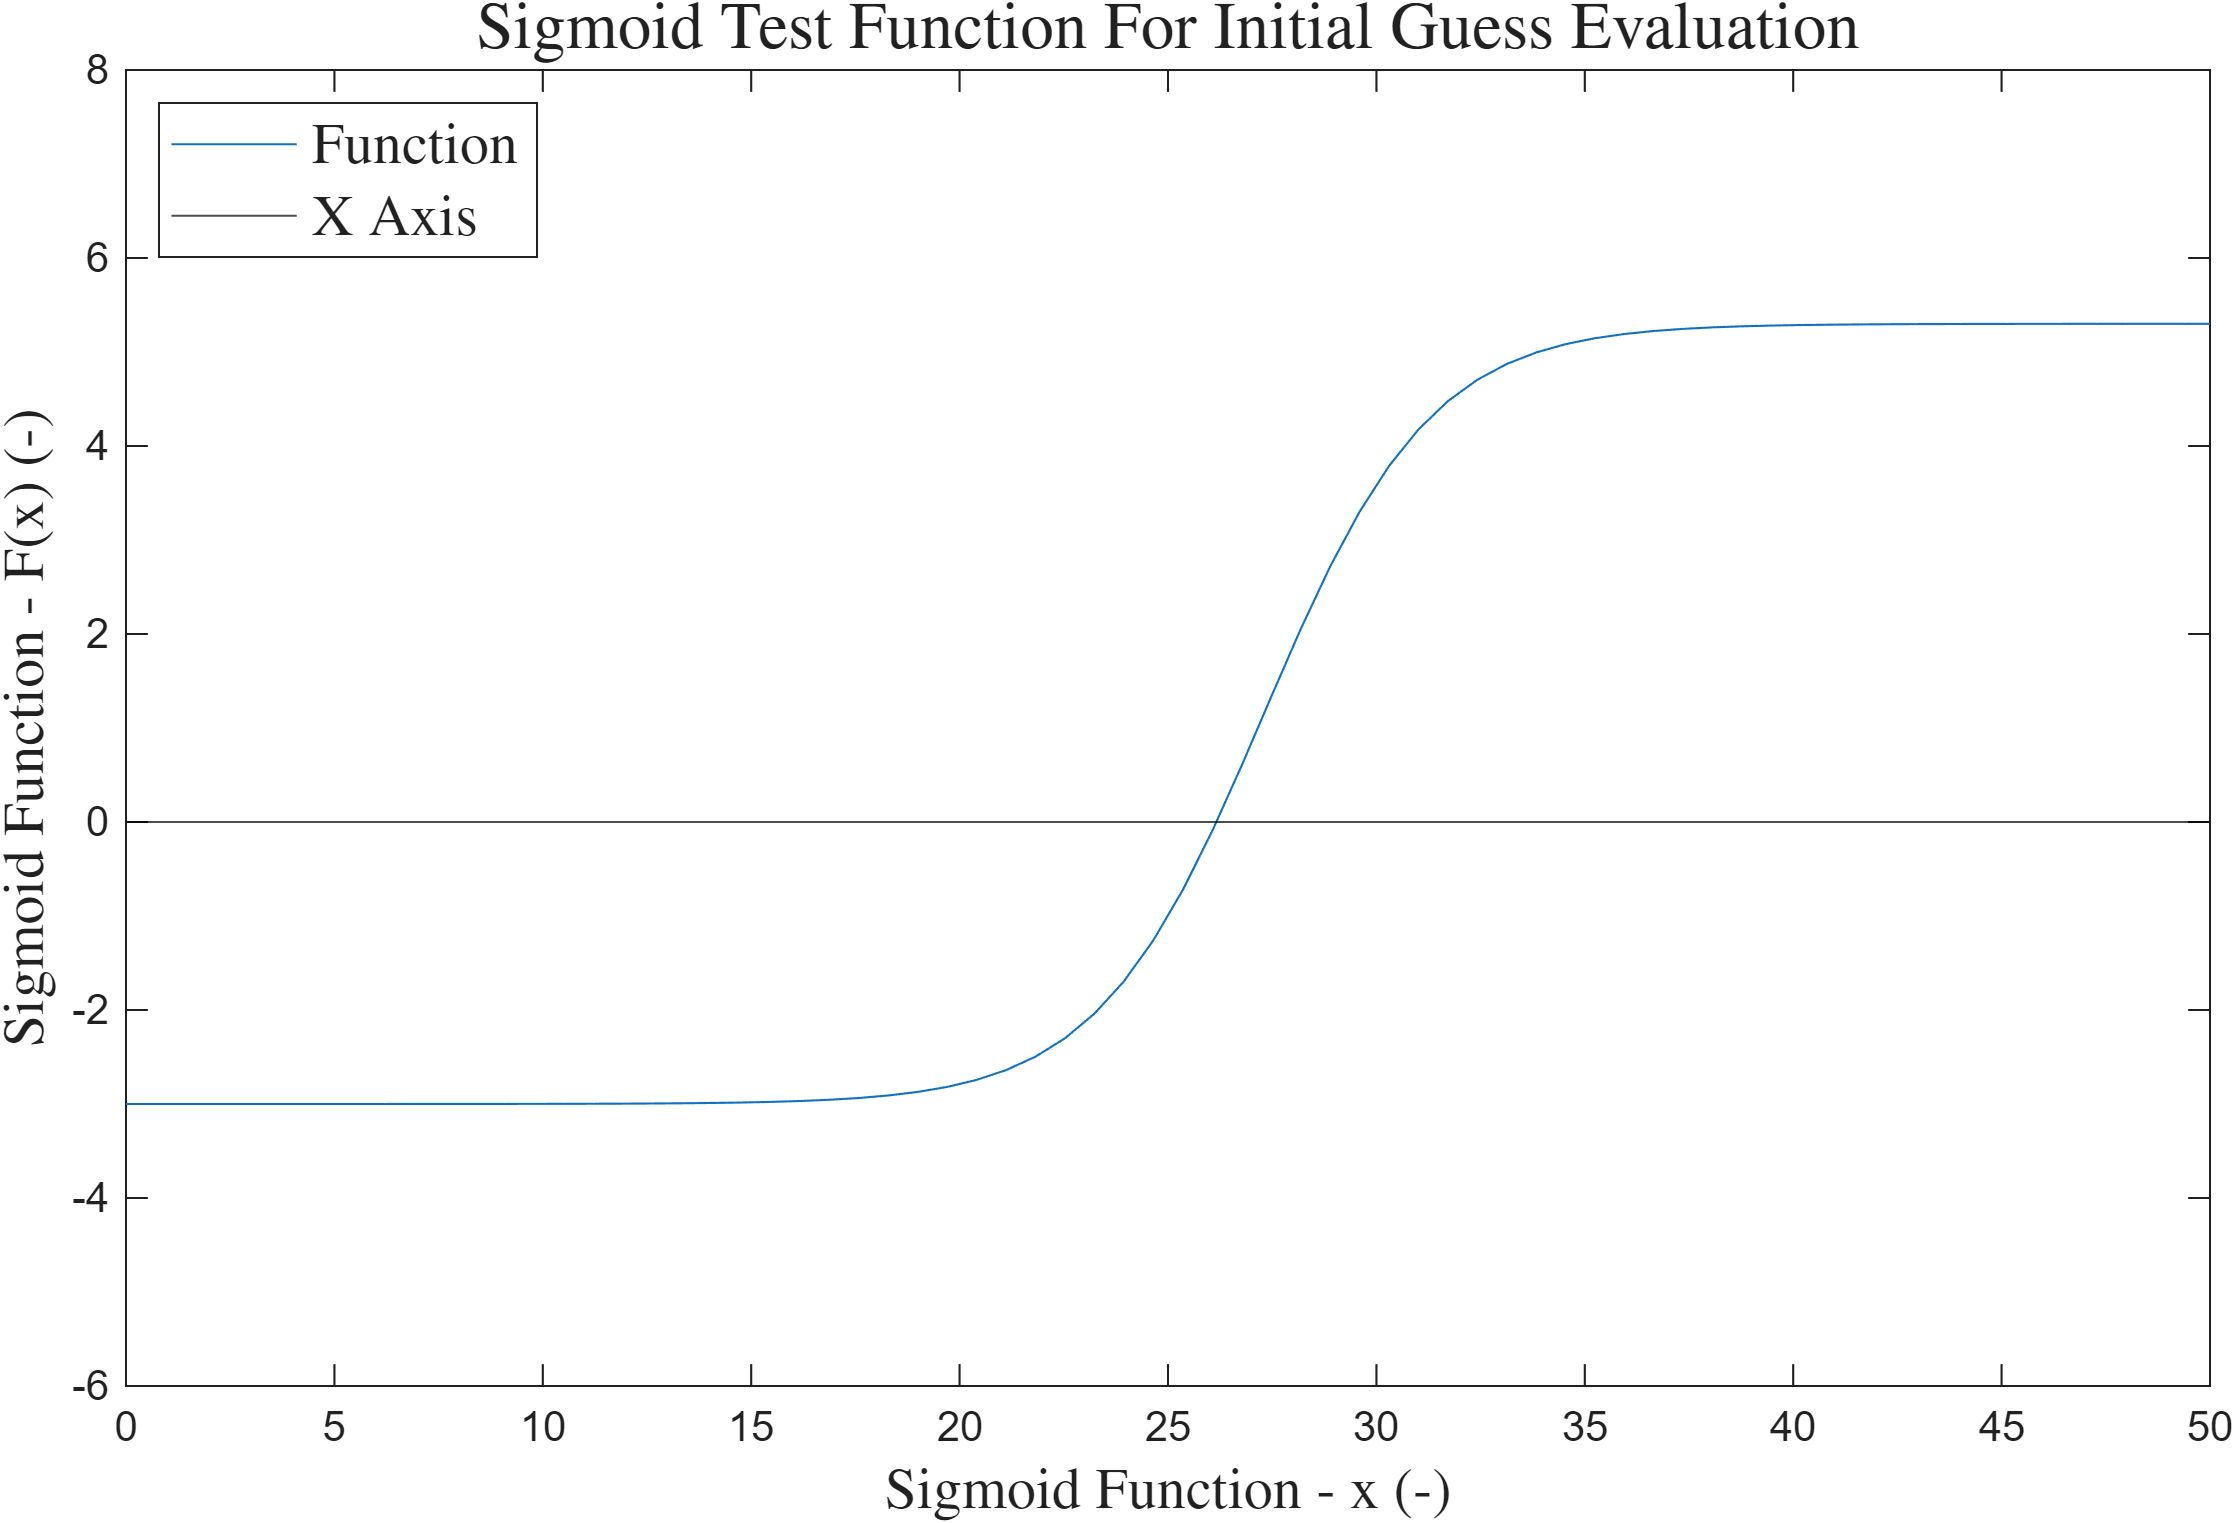
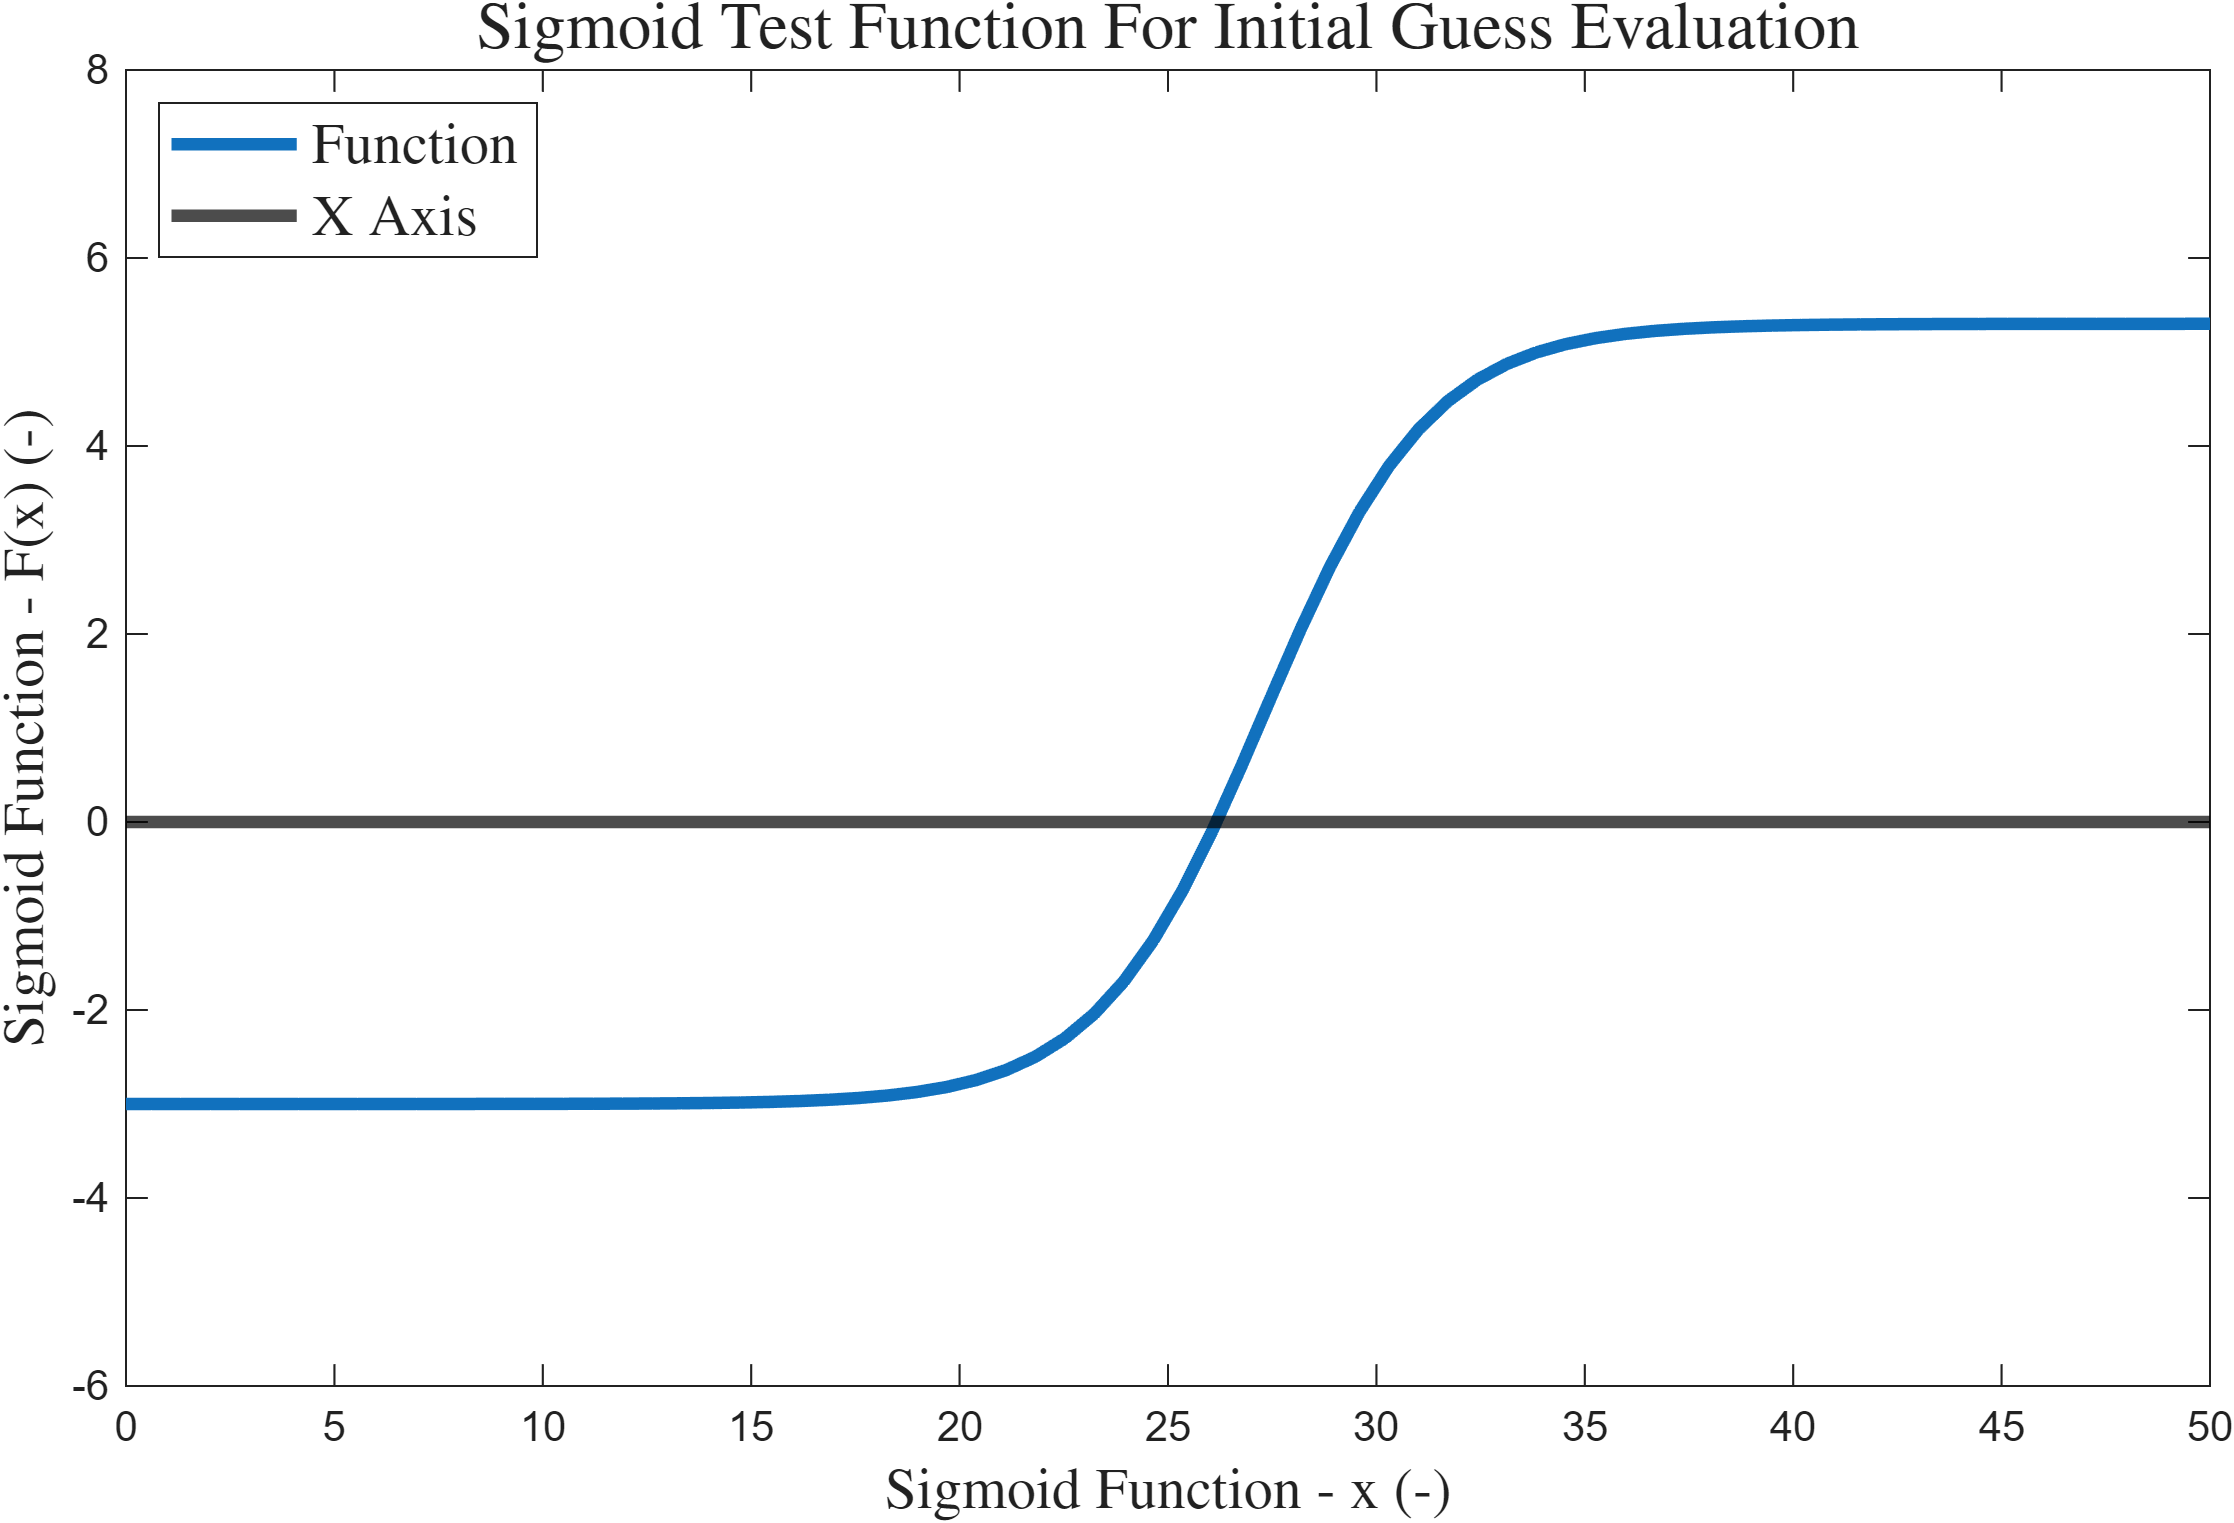
prettified plots pt 2

diff --git a/function_plots.m b/function_plots.m
@@ -1,18 +1,18 @@
-x = linspace(-10, 60, 100);
+x = linspace(-20, 60, 100);
 y = [];
 
 for i=1:length(x)
-    [new, ~] = sigmoid(x(i));
+    [new, ~] = test_function(x(i));
     y = [y, new];
 end
 
-plot(x, y)
-axis([0 50 -6 8])
-yline(0, 'k-')
+plot(x, y, 'LineWidth', 3)
+axis([-15 40 -50 80])
+yline(0, 'k-', LineWidth=3)
 legend("Function", "X Axis", FontSize=14, Interpreter= "latex",  Location='northwest');
-title("Sigmoid Test Function For Initial Guess Evaluation", 'FontSize', 16, "Interpreter","latex")
-ylabel("Sigmoid Function - F(x) (-)",'FontSize', 14, "Interpreter","latex")
-xlabel("Sigmoid Function - x (-)",'FontSize', 14, "Interpreter","latex")
-exportgraphics(gca, 'plots/sigmoid.png', 'Resolution', 300);
+title("Initial Test Function For Root Finding", 'FontSize', 16, "Interpreter","latex")
+ylabel("Test Function - F(x) (-)",'FontSize', 14, "Interpreter","latex")
+xlabel("Test Function - x (-)",'FontSize', 14, "Interpreter","latex")
+exportgraphics(gca, 'plots/test_func_1.png', 'Resolution', 300);
 
 

diff --git a/bisection.m b/bisection.m
@@ -51,4 +51,4 @@ function [x, exit_flag, guess_list] = bisection_solver(func,x_left,x_right,dxtol
 end
 
 
-% [root, exit_flag] = bisection_solver(@test_function, -5, 5, 10e-14, 10e-14, 1000)
+ %[root, exit_flag] = bisection_solver(@sigmoid, 20, 30, 10e-14, 10e-14, 1000)
